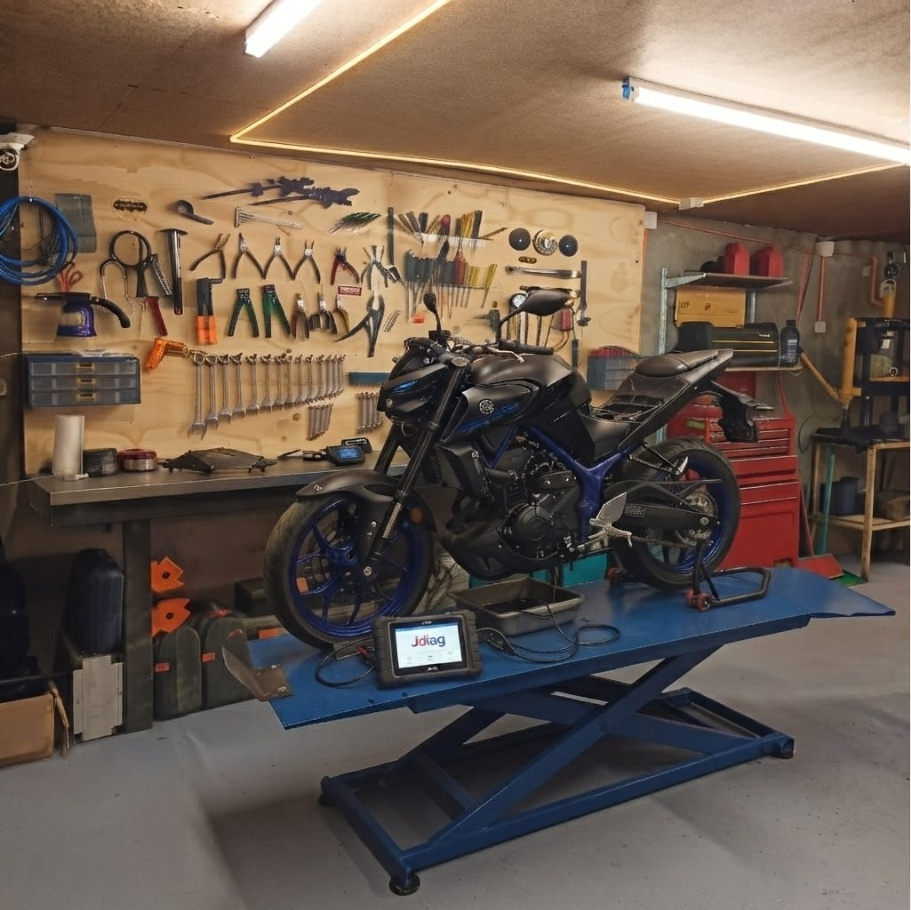
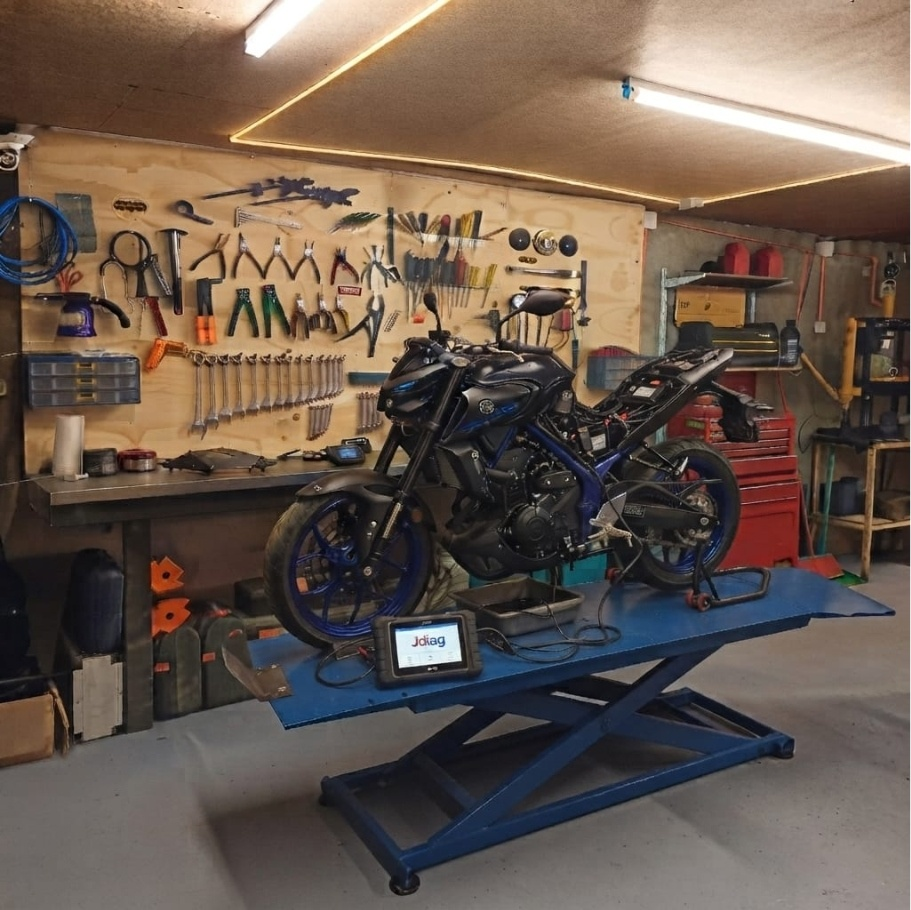
feat: implement responsive hero section with new assets and styling

diff --git a/css/sections/hero.css b/css/sections/hero.css
@@ -10,13 +10,16 @@
 
 .hero-grid {
   display: grid;
-  grid-template-columns: 1.05fr 0.95fr;
-  gap: 3.5rem;
-  align-items: stretch;
+  grid-template-columns: 1fr 1.15fr;
+  gap: 1.5rem;
+  align-items: center;
+  position: relative;
 }
 
 .hero-content {
-  z-index: 2;
+  position: relative;
+  z-index: 3;
+  max-width: 600px;
 }
 
 .hero-badge-wrap {
@@ -118,22 +121,36 @@
 /* Hero Media Card */
 .hero-media {
   position: relative;
-  z-index: 2;
+  z-index: 1;
   display: flex;
   height: 100%;
+  margin-left: -140px;
+  width: calc(100% + 140px);
 }
 
 .hero-image-frame {
   position: relative;
   border-radius: var(--radius-xl);
   overflow: hidden;
-  border: 1px solid rgba(255, 255, 255, 0.14);
-  box-shadow: var(--shadow-lg), 0 0 60px rgba(181, 41, 42, 0.22);
-  background: var(--color-bg-surface);
+  border: none;
+  box-shadow: none;
+  background: transparent;
   width: 100%;
   height: 100%;
   min-height: 640px;
   display: flex;
+}
+
+.hero-image-frame::before {
+  content: '';
+  position: absolute;
+  inset: 0;
+  background: 
+    linear-gradient(90deg, #080c14 0%, rgba(8, 12, 20, 0.9) 18%, rgba(8, 12, 20, 0.5) 40%, rgba(8, 12, 20, 0.08) 70%, transparent 100%),
+    linear-gradient(180deg, rgba(8, 12, 20, 0.4) 0%, transparent 20%, transparent 80%, #080c14 100%),
+    linear-gradient(270deg, rgba(8, 12, 20, 0.4) 0%, transparent 15%);
+  z-index: 2;
+  pointer-events: none;
 }
 
 .hero-image-frame img {
@@ -141,30 +158,13 @@
   height: 100%;
   min-height: 640px;
   object-fit: cover;
-  object-position: center center;
+  object-position: center 30%;
   display: block;
   transition: transform var(--transition-slow);
 }
 
 .hero-image-frame:hover img {
   transform: scale(1.03);
-}
-
-.hero-floating-badge {
-  position: absolute;
-  bottom: 20px;
-  left: 20px;
-  right: 20px;
-  background: rgba(15, 21, 35, 0.92);
-  backdrop-filter: blur(12px);
-  -webkit-backdrop-filter: blur(12px);
-  border: 1px solid rgba(225, 29, 72, 0.35);
-  padding: 1rem 1.25rem;
-  border-radius: var(--radius-md);
-  display: flex;
-  align-items: center;
-  gap: 1rem;
-  box-shadow: var(--shadow-md);
 }
 
 .floating-icon {

diff --git a/css/responsive.css b/css/responsive.css
@@ -26,6 +26,10 @@
     height: auto;
   }
 
+  .hero-image-frame::before {
+    background: linear-gradient(180deg, transparent 50%, rgba(8, 12, 20, 0.6) 100%);
+  }
+
   .hero-image-frame img {
     min-height: 480px;
     height: 480px;
